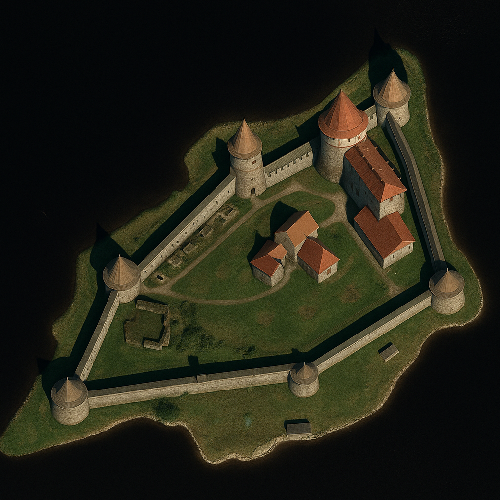
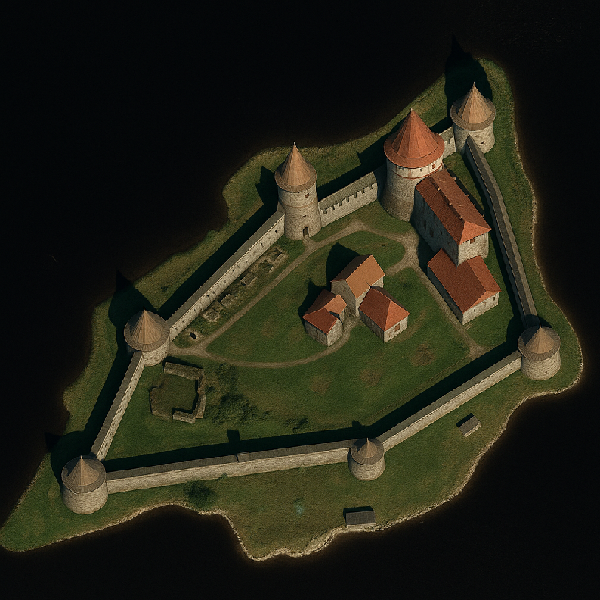
Ver 0.04

diff --git a/classes.cpp b/classes.cpp
@@ -3,6 +3,7 @@
 #include <SFML/Graphics.hpp>
 #include <sstream>
 #include <iomanip>
+#include <iostream>
 
 sf::Texture load_texture(const std::string& path)
 {
@@ -11,7 +12,7 @@ sf::Texture load_texture(const std::string& path)
 }
 
 Game::Game(unsigned int window_width, unsigned int window_height, const std::string& window_name) :
-    game_hour(0), game_day(7), game_month(9), game_year(1941),
+    game_hour(0), game_day(9), game_month(9), game_year(1941),
     seconds_per_hour(1.0f)
 {
     window.create(sf::VideoMode(sf::Vector2u{ window_width, window_height }), window_name);
@@ -19,15 +20,37 @@ Game::Game(unsigned int window_width, unsigned int window_height, const std::str
 
     if (!font.openFromFile("Assets/arial.ttf"))
     {
-        //error
         window.close();
     }
 
     textures_list["island"] = std::move(load_texture("Assets/island.png"));
+    textures_list["night"] = std::move(load_texture("Assets/night.png"));
+    textures_list["empty"] = std::move(load_texture("Assets/empty.png"));
+
+    textures_list["attention"] = std::move(load_texture("Assets/attention.png"));
+    textures_list["bomber"] = std::move(load_texture("Assets/bomber.png"));
+    textures_list["explosion"] = std::move(load_texture("Assets/explosion.png"));
+
+    textures_list["sniper"] = std::move(load_texture("Assets/sniper.png"));
+    textures_list["artillery"] = std::move(load_texture("Assets/artillery.png"));
 };
+
+void Game::operation_Iscra()
+{
+    if (game_year == 1943 && game_month == 1 && game_day == 18 && game_hour == 12)
+    {
+        std::cout << "Bastion survived. Congratilation!";
+        window.close();
+    }
+}
 
 void Game::run()
 {
+    for (auto& coord : cell_coords)
+    {
+        create_cell(coord);
+    }
+
     clock_text.setCharacterSize(16);
     std::ostringstream oss;
     oss << std::setw(2) << std::setfill('0') << game_hour << ":00 | "
@@ -44,6 +67,7 @@ void Game::run()
         date_maker();
         event_reactions();
         draw();
+        operation_Iscra();
     }
 }
 
@@ -111,7 +135,173 @@ void Game::event_reactions()
                 break;
             }
         }
+        else if (const auto* mouse_pressed = event->getIf<sf::Event::MouseButtonPressed>())
+        {
+            switch (mouse_pressed->button)
+            {
+            case (sf::Mouse::Button::Right):
+                for (auto& cell : cells)
+                {
+                    int x = cell.coord.x - 25.f;
+                    int y = cell.coord.y - 25.f;
+                    sf::IntRect rec({ x,y }, { 50, 50 });
+                    if (rec.contains(mouse_pressed->position))
+                    {
+                        int current_index = cell.weapon->index;
+                        int attempts = weapons.size();
+
+                        int next_index = current_index;
+
+                        do
+                        {
+                            next_index = (next_index + 1) % weapons.size();
+                            if (weapons[next_index].total > 0)
+                            {
+                                cell.weapon = &weapons[next_index];
+                                cell.cell_texture = textures_list[cell.weapon->name];
+                                weapons[current_index].total++;
+                                weapons[next_index].total--;
+                                break;
+                            }
+                            attempts--;
+                        } while (next_index != current_index && attempts > 0);
+                    }
+                }
+                break;
+                /*std::cout << mouse_pressed->position.x << " " << mouse_pressed->position.y;
+                create_cell({ static_cast<float>(mouse_pressed->position.x), static_cast<float>(mouse_pressed->position.y) });*/
+            case (sf::Mouse::Button::Left):
+                for (auto& cell : cells)
+                {
+                    int x = cell.coord.x - 25.f;
+                    int y = cell.coord.y - 25.f;
+                    sf::IntRect rec({ x,y }, { 50, 50 });
+                    if (rec.contains(mouse_pressed->position))
+                    {
+                        int current_index = cell.weapon->index;
+                        int attempts = weapons.size();
+
+                        int next_index = current_index;
+
+                        do
+                        {
+                            next_index = (next_index + weapons.size() - 1) % weapons.size();
+                            if (weapons[next_index].total > 0)
+                            {
+                                cell.weapon = &weapons[next_index];
+                                cell.cell_texture = textures_list[cell.weapon->name];
+                                weapons[current_index].total++;
+                                weapons[next_index].total--;
+                                break;
+                            }
+                            attempts--;
+                        } while (next_index != current_index && attempts > 0);
+                    }
+                }
+                break;
+            default:
+                break;
+            }
+        }
     }
+}
+
+void Game::fire()
+{
+    if (game_hour == 12)
+    {
+        for (auto& cell : cells)
+        {
+            if (cell.weapon->name == "artillery")
+            {
+                sf::Sprite sprite3(textures_list["explosion"]);
+                sprite3.setPosition(cell.coord);
+                window.draw(sprite3);
+            }
+        }
+    }
+    if (game_hour == 5 || game_hour == 21)
+    {
+        for (auto& cell : cells)
+        {
+            if (cell.weapon->name == "sniper")
+            {
+                sf::Sprite sprite3(textures_list["explosion"]);
+                sprite3.setPosition(cell.coord);
+                window.draw(sprite3);
+            }
+        }
+    }
+}
+
+void Game::bombing()
+{
+    if (game_hour == 6 || game_hour == 15 || game_hour == 18)
+    {
+        sf::Sprite sprite(textures_list["attention"]);
+        sprite.setPosition({ 10.f,10.f });
+        sprite.setColor(sf::Color(255, 255, 255, 128));
+        window.draw(sprite);
+    }
+    else if (game_hour == 7 || game_hour == 19)
+    {
+        sf::Sprite sprite(textures_list["attention"]);
+        sprite.setPosition({ 10.f,10.f });
+        window.draw(sprite);
+
+        sf::Sprite sprite2(textures_list["artillery"]);
+        sprite2.setPosition({ 65.f,10.f });
+        window.draw(sprite2);
+
+        sf::Sprite sprite3(textures_list["explosion"]);
+        sf::Vector2f boom = cell_coords[rand() % cells.size()];
+        boom -= {25.f, 25.f};
+        sprite3.setPosition(boom);
+        for (auto& cell : cells)
+        {
+            if (cell.coord == boom && cell.weapon->name != "empty")
+            {
+                weapons[cell.weapon->index].total--;
+                cell.weapon = &weapons[0];
+                cell.cell_texture = textures_list[cell.weapon->name];
+            }
+        }
+        window.draw(sprite3);
+    }
+    else if (game_hour == 16)
+    {
+        sf::Sprite sprite(textures_list["attention"]);
+        sprite.setPosition({ 10.f,10.f });
+        window.draw(sprite);
+
+        sf::Sprite sprite2(textures_list["bomber"]);
+        sprite2.setPosition({ 65.f,10.f });
+        window.draw(sprite2);
+
+        sf::Sprite sprite3(textures_list["explosion"]);
+        sf::Vector2f boom = cell_coords[rand() % cells.size()];
+        boom -= {25.f, 25.f};
+        sprite3.setPosition(boom);
+        for (auto& cell : cells)
+        {
+            if (cell.coord == boom && cell.weapon->name != "empty")
+            {
+                weapons[cell.weapon->index].total--;
+                cell.weapon = &weapons[0];
+                cell.cell_texture = textures_list[cell.weapon->name];
+            }
+        }
+        window.draw(sprite3);
+    }
+}
+
+void Game::create_cell(sf::Vector2f coord)
+{
+    Cell cell;
+    cell.coord = coord;
+    cell.weapon = &weapons[0];
+    cell.cell_texture = textures_list[cell.weapon->name];
+    cells.push_back(cell);
 }
 
 void Game::draw()
@@ -119,16 +309,40 @@ void Game::draw()
     window.clear();
 
     sf::Sprite sprite(textures_list["island"]);
+    window.draw(sprite);
+
+    for (auto& cell : cells)
+    {
+        sf::Sprite cell_sprite(cell.cell_texture);
+        auto mid = cell_sprite.getLocalBounds().getCenter();
+        cell_sprite.setPosition({ cell.coord - mid });
+        window.draw(cell_sprite);
+    }
+
+    bombing();
+    fire();
+
+    sf::Sprite night_sprite(textures_list["night"]);
+    int alpha = 0;
     if (game_hour >= 20 || game_hour < 4)
     {
-        sprite.setColor(sf::Color(128, 128, 128));
+        alpha = 128;
+    }
+    else if (game_hour >= 16 && game_hour < 20)
+    {
+        alpha = static_cast<int>((game_hour - 16) / 4.0f * 128);
+    }
+    else if (game_hour >= 4 && game_hour < 8)
+    {
+        alpha = static_cast<int>((1.0f - (game_hour - 4) / 4.0f) * 128);
     }
     else
     {
-        sprite.setColor(sf::Color(255, 255, 255));
+        alpha = 0;
     }
-    window.draw(sprite);
-    
+    night_sprite.setColor(sf::Color(255, 255, 255, alpha));
+    window.draw(night_sprite);
+
     window.draw(clock_text);
 
     window.display();

diff --git a/classes.h b/classes.h
@@ -5,6 +5,20 @@
 #include <unordered_map>
 #include <vector>
 
+struct Weapon
+{
+    int index;
+    std::string name;
+    int total;
+};
+
+struct Cell
+{
+    sf::Vector2f coord;
+    sf::Texture cell_texture;
+    Weapon* weapon;
+};
+
 class Game
 {
 private:
@@ -18,12 +32,23 @@ private:
     const float seconds_per_hour;
     float speed_mod = 1.0f;
     const std::vector<int> days_in_month = { 31, 28, 31, 30, 31, 30, 31, 31, 30, 31, 30, 31 };
+    std::vector<Cell> cells;
+    int cell_size = 50;
+    std::vector<Weapon> weapons = { {0, "empty", 1000}, {1, "artillery", 3}, {2, "sniper", 2}};
+
+    std::vector<sf::Vector2f> cell_coords = { {147.f, 343.f}, { 85.f, 488.f }, { 369.f, 462.f },
+        { 540.f, 353.f }, { 474.f, 122.f }, { 300.f, 198.f }, { 151.f, 474.f }, { 222.f, 464.f }, { 294.f, 457.f } };
+    //remove to json when i have time 
 
     std::unordered_map<std::string, sf::Texture> textures_list;
 
+    void operation_Iscra();
     void date_maker();
     void event_reactions();
+    void create_cell(sf::Vector2f coord);
     void draw();
+    void bombing();
+    void fire();
 public:
     Game(unsigned int window_width, unsigned int window_height, const std::string& window_name);
     void run();

diff --git a/main.cpp b/main.cpp
@@ -2,6 +2,6 @@
 
 int main()
 {
-    Game game(500, 500, "TheGame");
+    Game game(600, 600, "TheGame");
     game.run();
 }
